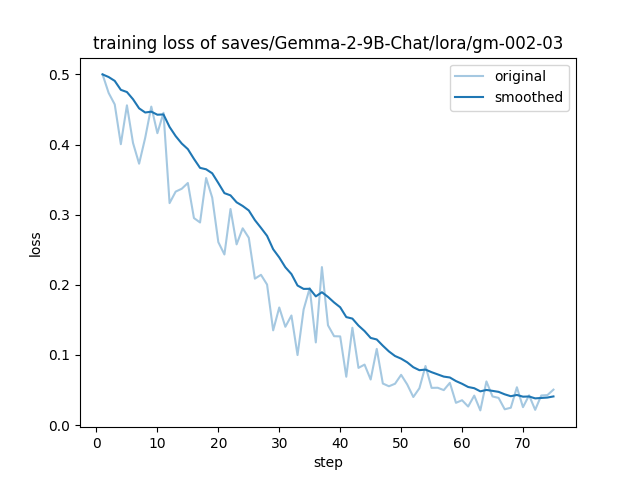
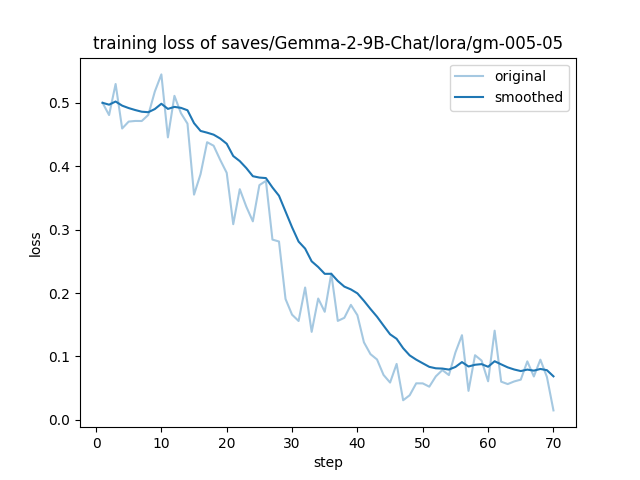
chore(docs): update doc for sthenno-gm-05-05

diff --git a/README.md b/README.md
@@ -2,7 +2,7 @@
 
 ## Current progress
 
-sthenno-gm-04 is a fine-tuned version of DeepMind's gemma2-9b-it.
+sthenno-gm-05-05 is a fine-tuned version of DeepMind's gemma2-9b-it.
 
 This model is optimized by KTO(Kahneman-Tversky Optimization) using custom data.
 
@@ -19,21 +19,21 @@ replicated evaluations.
 ### Training Arguments
 
 - Training device: NVIDIA A40
-- Memory usage: up to 44GB
+- Memory usage: up to 46GB
 - Framework used: [LLaMA-Factory](https://github.com/hiyouga/LLaMA-Factory)
 - Base model: [google/gemma-2-9b-it](https://huggingface.co/google/gemma-2-9b-it)
 
 ```yaml
 bf16: true
-cutoff_len: 2048
-dataset: kto-02
+cutoff_len: 1024
+dataset: kto-04
 dataset_dir: data
 ddp_timeout: 180000000
 do_train: true
 finetuning_type: lora
-gradient_accumulation_steps: 16
+gradient_accumulation_steps: 8
 include_num_input_tokens_seen: true
-learning_rate: 5.0e-05
+learning_rate: 8.0e-05
 lora_alpha: 32
 lora_dropout: 0
 lora_rank: 16
@@ -42,13 +42,13 @@ lr_scheduler_type: cosine
 max_grad_norm: 1.0
 max_samples: 3000
 model_name_or_path: /home/neoheartbeats/endpoint/models/gm2-9b-it
-num_train_epochs: 60.0
+num_train_epochs: 120.0
 optim: adamw_torch
-output_dir: saves/Gemma-2-9B-Chat/lora/gm-002-03
+output_dir: saves/Gemma-2-9B-Chat/lora/gm-005-05
 packing: false
 per_device_train_batch_size: 4
 plot_loss: true
-pref_beta: 0.05
+pref_beta: 0.06
 pref_ftx: 0
 pref_loss: kto_pair
 stage: kto
